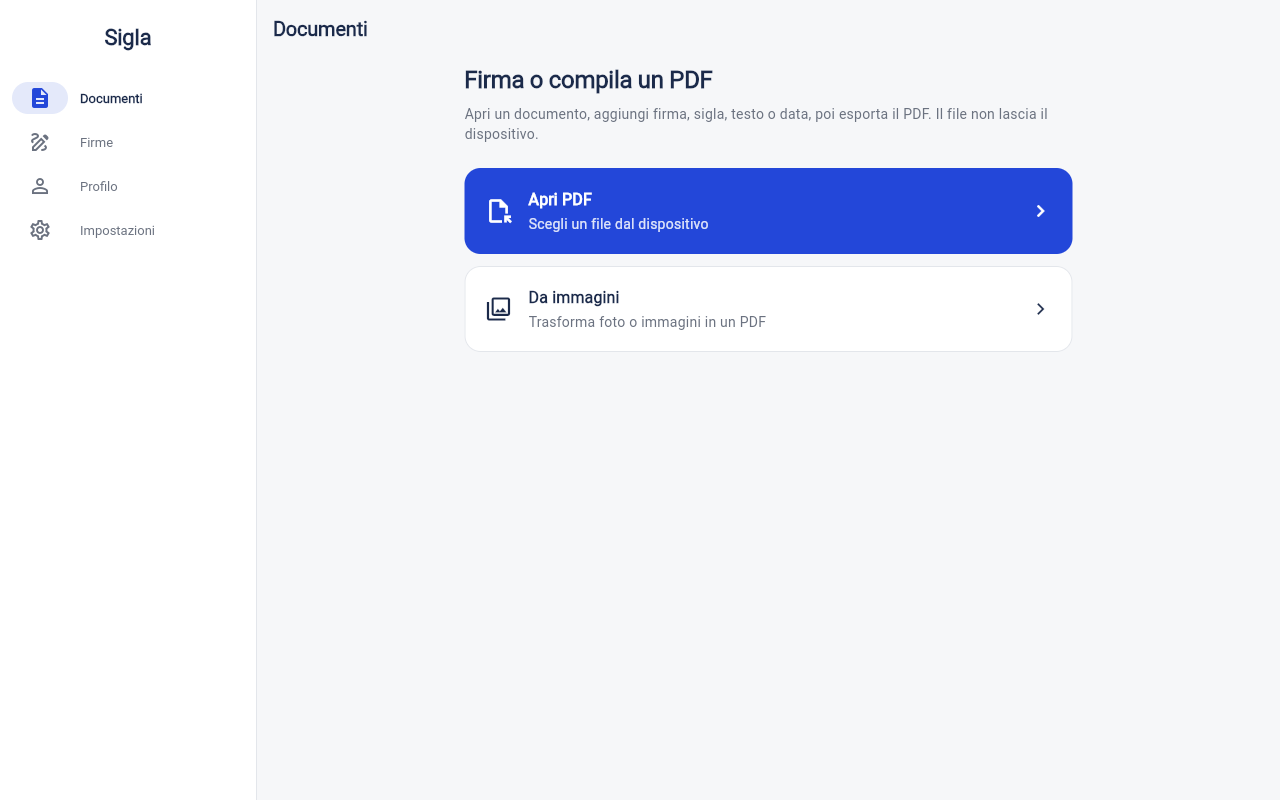
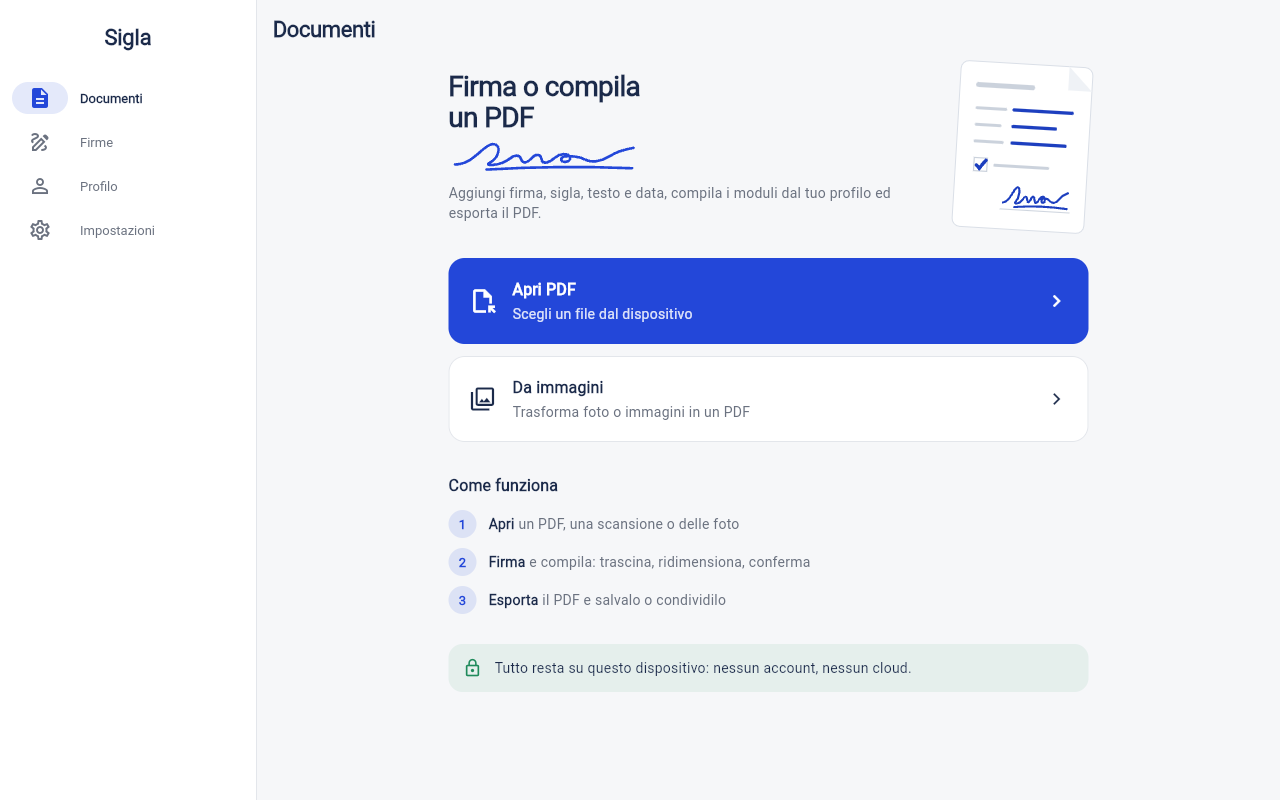
Sigla: screenshot con la nuova grafica e documenti scansionati letti sul telefono
- Screenshot aggiornati (telefono chiaro/scuro e computer); tolto quello delle
  impostazioni, preso nel browser e non rappresentativo dell'app
- README, guida, privacy, novità e pagina del sito: OCR sul telefono per i
  documenti scansionati (Android, senza internet)

Claude-Session: https://claude.ai/code/session_01VUdENjmbVqvJ6YCc4FEP1V

diff --git a/docs/sigla/index.html b/docs/sigla/index.html
@@ -79,7 +79,7 @@
           </div>
           <div class="card feature">
             <h3><span class="ico"><svg viewBox="0 0 24 24" aria-hidden="true"><path fill="currentColor" d="M7.5 5.6 10 7 8.6 4.5 10 2 7.5 3.4 5 2l1.4 2.5L5 7l2.5-1.4Zm12 9.8L17 14l1.4 2.5L17 19l2.5-1.4L22 19l-1.4-2.5L22 14l-2.5 1.4ZM22 2l-2.5 1.4L17 2l1.4 2.5L17 7l2.5-1.4L22 7l-1.4-2.5L22 2Zm-7.6 5.3a1 1 0 0 0-1.4 0L1.3 18.9a1 1 0 0 0 0 1.4l2.3 2.3a1 1 0 0 0 1.4 0L16.7 11a1 1 0 0 0 0-1.4l-2.3-2.3ZM13.3 12.3l-1.6-1.6 2-2 1.6 1.6-2 2Z"/></svg></span>Compila i moduli</h3>
-            <p>Trova le etichette come "Nome: ____" e propone i dati del tuo profilo. Vedi un’anteprima e confermi tu. Anche i PDF compilabili.</p>
+            <p>Trova le etichette come "Nome: ____" e propone i dati del tuo profilo, anche nelle scansioni (Android, senza internet). Vedi un’anteprima e confermi tu.</p>
           </div>
           <div class="card feature">
             <h3><span class="ico"><svg viewBox="0 0 24 24" aria-hidden="true"><path fill="currentColor" d="M4 6H2v14a2 2 0 0 0 2 2h14v-2H4V6Zm16-4H8a2 2 0 0 0-2 2v12a2 2 0 0 0 2 2h12a2 2 0 0 0 2-2V4a2 2 0 0 0-2-2Zm-1 9h-4v4h-2v-4H9V9h4V5h2v4h4v2Z"/></svg></span>Scanner e immagini</h3>
@@ -109,7 +109,6 @@
           <figure><a href="../assets/sigla/screenshot/telefono-modulo-compilato.png"><img loading="lazy" src="../assets/sigla/screenshot/telefono-modulo-compilato.png" alt="Modulo compilato" width="540" height="1169"></a><figcaption>Modulo compilato</figcaption></figure>
           <figure><a href="../assets/sigla/screenshot/telefono-documenti.png"><img loading="lazy" src="../assets/sigla/screenshot/telefono-documenti.png" alt="Documenti" width="540" height="1169"></a><figcaption>Documenti</figcaption></figure>
           <figure><a href="../assets/sigla/screenshot/telefono-profilo.png"><img loading="lazy" src="../assets/sigla/screenshot/telefono-profilo.png" alt="Profilo" width="540" height="1169"></a><figcaption>Profilo</figcaption></figure>
-          <figure><a href="../assets/sigla/screenshot/telefono-impostazioni.png"><img loading="lazy" src="../assets/sigla/screenshot/telefono-impostazioni.png" alt="Impostazioni" width="540" height="1169"></a><figcaption>Impostazioni</figcaption></figure>
           <figure><a href="../assets/sigla/screenshot/telefono-firme-scuro.png"><img loading="lazy" src="../assets/sigla/screenshot/telefono-firme-scuro.png" alt="Firme, tema scuro" width="540" height="1169"></a><figcaption>Firme, tema scuro</figcaption></figure>
           <figure><a href="../assets/sigla/screenshot/telefono-documenti-scuro.png"><img loading="lazy" src="../assets/sigla/screenshot/telefono-documenti-scuro.png" alt="Documenti, tema scuro" width="540" height="1169"></a><figcaption>Documenti, tema scuro</figcaption></figure>
         </div>

diff --git a/docs/sigla/privacy.html b/docs/sigla/privacy.html
@@ -47,7 +47,8 @@
           <tbody><tr><td>Riconoscimento AI dei campi (facoltativo, con la tua chiave)</td><td>Anthropic (API Claude)</td><td>Le immagini delle pagine del documento che scegli di analizzare</td></tr></tbody>
         </table>
         <p>Prima di ogni invio l'app chiede quale motore usare e ricorda che le pagine vengono inviate. Il riconoscimento
-          predefinito funziona sul dispositivo, senza internet. La chiave API resta sul dispositivo e non finisce mai nei backup.</p>
+          predefinito funziona sul dispositivo, senza internet; sull'app Android anche la lettura dei documenti
+          scansionati (OCR di Google ML Kit) avviene sul telefono e non invia nulla. La chiave API resta sul dispositivo e non finisce mai nei backup.</p>
         <h2>Permessi</h2>
         <ul>
           <li><strong>Fotocamera e galleria:</strong> per lo scanner e per fotografare o importare la firma.</li>

diff --git a/sigla/GUIDA.md b/sigla/GUIDA.md
@@ -71,9 +71,15 @@ Niente viene inserito senza la tua conferma, e dopo puoi comunque spostare o eli
 Con i **PDF compilabili** (moduli con caselle già pronte) tocca **Campi › Dal profilo**: si compilano i campi
 vuoti che l'app riconosce dal nome.
 
+### Documenti scansionati
+
+Se il PDF è una scansione (una foto del foglio, senza testo), sull'**app Android** la ricerca sul
+dispositivo legge la pagina con il riconoscimento del testo del telefono (OCR), **senza internet**, e poi
+cerca le etichette come sopra. Nel browser questo non c'è: usa l'app Android oppure il riconoscimento AI.
+
 ### Riconoscimento AI (facoltativo)
 
-Se un PDF è una scansione (solo immagini, senza testo) la ricerca sul dispositivo non trova nulla. Puoi attivare
+Se un PDF è una scansione e non usi l'app Android, la ricerca sul dispositivo non trova nulla. Puoi attivare
 il riconoscimento AI in **Impostazioni › Riconoscimento AI** con una tua chiave API di Anthropic. Quando tocchi
 **Compila** l'app chiede se cercare **sul dispositivo** o con l'**AI avanzata**: con l'AI le pagine vengono
 inviate come immagini ad Anthropic. Il modello predefinito è `claude-haiku-5-5` e si può cambiare.
@@ -106,7 +112,7 @@ usare le firme. Si richiude quando esci dall'app. Nel browser non è disponibile
 |---|---|
 | **La firma importata ha ancora lo sfondo** | Sposta la soglia a sinistra, oppure rifotografa su carta bianca con più luce. |
 | **La firma importata è a pezzi** | Sposta la soglia a destra. |
-| **"Nessun campo riconosciuto"** | Il PDF è probabilmente una scansione: usa il riconoscimento AI o aggiungi i testi a mano. |
+| **"Nessun campo riconosciuto"** | Se è una scansione poco leggibile, rifalla con più luce; altrimenti usa il riconoscimento AI o aggiungi i testi a mano. |
 | **Il PDF non si apre** | Se è protetto da password, rimuovi la protezione e riprova. |
 | **"Password errata o file danneggiato"** | Controlla la password del backup (maiuscole comprese). |
 | **Il testo inserito ha un simbolo "?"** | Alcuni caratteri speciali non sono disponibili nel font del PDF e vengono sostituiti. |

diff --git a/sigla/README.md b/sigla/README.md
@@ -64,7 +64,9 @@ con **Documenti › Apri PDF**.
   indirizzo…).
 - **Compila automaticamente** anche i moduli "di carta" (*Nome: ______*): l'app trova le etichette e
   propone i tuoi dati. Vedi sempre un'**anteprima** e confermi tu: niente viene inserito da solo.
-  Per i PDF scansionati c'è il **riconoscimento AI** facoltativo, con una tua chiave Anthropic.
+  Sull'app Android funziona anche con i **documenti scansionati**: il telefono legge il testo della
+  pagina da solo, senza internet. In alternativa c'è il **riconoscimento AI** facoltativo, con una tua
+  chiave Anthropic.
 - **Esporta PDF**: firme e testi diventano parte del documento (non modificabili), poi salvi o condividi.
 - **Backup** in un unico file `.sigla` protetto da password, con *unisci* o *sostituisci* all'import.
 - **Blocco firme** con impronta, Face ID o PIN (Android e iPhone).

diff --git a/sigla/PRIVACY.md b/sigla/PRIVACY.md
@@ -24,7 +24,8 @@ Solo in questo caso, e solo se lo attivi:
 | Riconoscimento AI dei campi (facoltativo, con la tua chiave) | Anthropic (API Claude) | Le immagini delle pagine del documento che scegli di analizzare |
 
 Prima di ogni invio l'app chiede quale motore usare e ricorda che le pagine vengono inviate.
-Il riconoscimento predefinito funziona **sul dispositivo, senza internet**.
+Il riconoscimento predefinito funziona **sul dispositivo, senza internet**; sull'app Android anche la
+lettura dei documenti scansionati (OCR di Google ML Kit) avviene sul telefono e non invia nulla.
 La chiave API resta sul dispositivo e non finisce mai nei backup.
 Non usare l'AI per documenti che non vuoi condividere.
 

diff --git a/sigla/CHANGELOG.md b/sigla/CHANGELOG.md
@@ -17,6 +17,7 @@ Prima pubblicazione:
   "Apri con" e "Condividi" su Android
 - Firma, sigla, testo, data, spunta e croce sulle pagine; sigla su tutte le pagine; annulla e ripeti
 - Campi dei PDF compilabili, profilo per l'autocompilazione, compilazione automatica dei moduli
-  non compilabili con anteprima e conferma; riconoscimento AI facoltativo
+  non compilabili con anteprima e conferma; su Android anche dai documenti scansionati (OCR sul
+  telefono, senza internet); riconoscimento AI facoltativo
 - Esportazione del PDF con firme e testi fissati, salva o condividi
 - Backup cifrato con password, blocco firme con impronta o Face ID, tema chiaro e scuro
